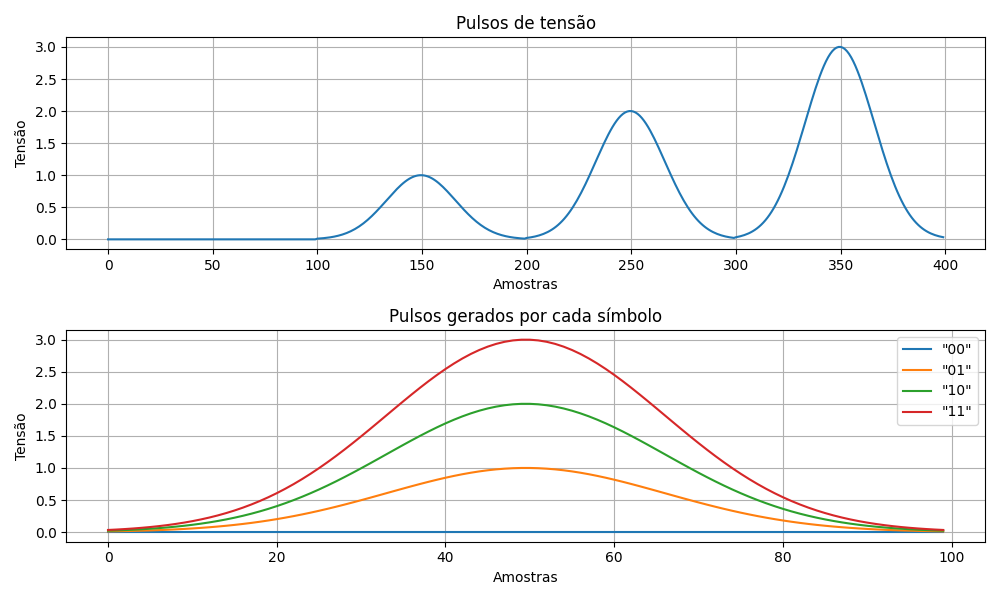
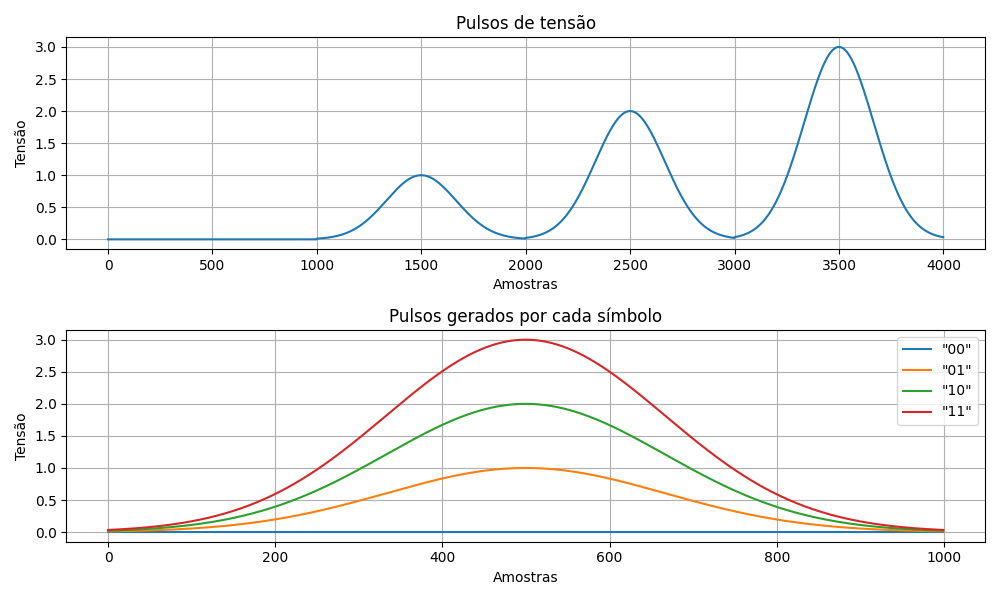
(camada física): testa qam16, fsk, psk e qpsk

diff --git a/camadas/tests/transmissor_test.py b/camadas/tests/transmissor_test.py
@@ -3,9 +3,12 @@ import unittest
 import numpy as np
 import numpy.testing as npt
 from matplotlib import pyplot as plt
+from scipy.signal import find_peaks
 
 from camadas.fisica.transmissor.banda_base import TransmissorBandaBase
+from camadas.fisica.transmissor.modulacoes.qam16 import QAM16
 from camadas.fisica.transmissor.modulador import Modulador
+from util.gray import Gray
 
 
 class TestTransmissorBandaBase(unittest.TestCase):
@@ -234,22 +237,206 @@ class TestTransmissorBandaBase(unittest.TestCase):
     def test_modulador_ask(self):
         modulador = Modulador(
             tensao_pico=3.3,
-            largura_de_banda=4.0,
+            frequencia_portadora=1.0,
             bits_por_simbolo=1,
             modulacao="ask",
             debug=True,
         )
 
         sinal_modulado = modulador.processar_sinal(mensagem="The")
-        print(sinal_modulado)
 
-        plt.figure(figsize=(10, 4))
+        picos, _ = find_peaks(sinal_modulado)
+
+        self.assertEqual(
+            len(picos), 10
+        )  # [0,1,0,1,0,1,0,0, 0,1,1,0,1,0,0,0, 0,1,1,0,0,1,0,1] = 10 1's
+
+        plt.figure(figsize=(15, 4))
         plt.title("Modulação ASK")
         plt.plot(sinal_modulado, label="Mensagem: 'The'")
+        for i in range(
+            0, len(sinal_modulado), int(modulador.portadora.taxa_amostragem)
+        ):  # Linhas verticais separando cada símbolo
+            plt.axvline(x=i, color="red", linestyle="--", alpha=0.5)
         plt.legend()
         plt.tight_layout()
         plt.grid()
         plt.savefig("images/transmissor_modulacao_ask.png")
+
+    def test_modulador_fsk(self):
+        modulador = Modulador(
+            tensao_pico=3.3,
+            frequencia_portadora=1.0,
+            bits_por_simbolo=1,
+            modulacao="fsk",
+            debug=True,
+        )
+
+        sinal_modulado = modulador.processar_sinal(mensagem="The")
+
+        picos, _ = find_peaks(sinal_modulado)
+
+        self.assertEqual(
+            len(picos), 34
+        )  # [0,1,0,1,0,1,0,0, 0,1,1,0,1,0,0,0, 0,1,1,0,0,1,0,1] = dois picos quando 1 e um pico quando 0 = 10*2 + 14*1 = 34
+
+        plt.figure(figsize=(15, 4))
+        plt.title("Modulação FSK")
+        plt.plot(sinal_modulado, label="Mensagem: 'The'")
+        for i in range(
+            0, len(sinal_modulado), int(modulador.portadora.taxa_amostragem)
+        ):  # Linhas verticais separando cada símbolo
+            plt.axvline(x=i, color="red", linestyle="--", alpha=0.5)
+        plt.legend()
+        plt.tight_layout()
+        plt.grid()
+        plt.savefig("images/transmissor_modulacao_fsk.png")
+
+    def test_modulador_psk(self):
+        modulador = Modulador(
+            tensao_pico=3.3,
+            frequencia_portadora=1.0,
+            bits_por_simbolo=1,
+            modulacao="psk",
+            debug=True,
+        )
+
+        sinal_modulado = modulador.processar_sinal(mensagem="The")
+
+        # Essa parte remove máximos locais
+        picos, _ = find_peaks(sinal_modulado)
+        pico_maximo = picos[np.argmax(sinal_modulado[picos])]
+        picos_maximos = picos[
+            np.where(sinal_modulado[picos] == sinal_modulado[pico_maximo])
+        ]
+
+        self.assertEqual(
+            len(picos_maximos), 24
+        )  # [0,1,0,1,0,1,0,0, 0,1,1,0,1,0,0,0, 0,1,1,0,0,1,0,1] = um pico por símbolo = 8*3 = 24
+
+        plt.figure(figsize=(15, 4))
+        plt.title("Modulação PSK")
+        plt.plot(sinal_modulado, label="Mensagem: 'The'")
+        for i in range(
+            0, len(sinal_modulado), int(modulador.portadora.taxa_amostragem)
+        ):  # Linhas verticais separando cada símbolo
+            plt.axvline(x=i, color="red", linestyle="--", alpha=0.5)
+        plt.legend()
+        plt.tight_layout()
+        plt.grid()
+        plt.savefig("images/transmissor_modulacao_psk.png")
+
+    def test_modulador_qpsk(self):
+        modulador = Modulador(
+            tensao_pico=3.3,
+            frequencia_portadora=1.0,
+            bits_por_simbolo=2,
+            modulacao="qpsk",
+            debug=True,
+        )
+
+        sinal_modulado = modulador.processar_sinal(mensagem="The")
+
+        simbolos = [
+            [0, 1],  # T
+            [0, 1],  # T
+            [0, 1],  # T
+            [0, 0],  # T
+            [0, 1],  # h
+            [1, 0],  # h
+            [1, 0],  # h
+            [0, 0],  # h
+            [0, 1],  # e
+            [1, 0],  # e
+            [0, 1],  # e
+            [0, 1],  # e
+        ]
+        gray = Gray(bits_por_simbolo=2, flag_binario=True).tabela_gray
+        simbolos_gray = [gray.tolist().index(s) for s in simbolos]
+
+        plt.figure(figsize=(15, 4))
+        plt.title("Modulação QPSK")
+        plt.plot(sinal_modulado, label="Mensagem: 'The'")
+        for i in range(
+            0, len(sinal_modulado), int(modulador.portadora.taxa_amostragem)
+        ):  # Linhas verticais separando cada símbolo
+            plt.axvline(x=i, color="red", linestyle="--", alpha=0.5)
+            # Fase
+            simbolo_index = i // int(modulador.portadora.taxa_amostragem)
+            if simbolo_index < len(simbolos_gray):
+                plt.text(
+                    i + int(0.4 * modulador.portadora.taxa_amostragem),
+                    3.5,
+                    f"{simbolos_gray[simbolo_index] * 90}°",
+                    color="blue",
+                    fontsize=12,
+                )
+        plt.legend()
+        plt.ylim(-4, 4)
+        plt.tight_layout()
+        plt.grid()
+        plt.savefig("images/transmissor_modulacao_qpsk.png")
+
+    def test_modulador_16qam(self):
+        modulador = Modulador(
+            tensao_pico=3.3,
+            frequencia_portadora=1.0,
+            bits_por_simbolo=4,
+            modulacao="16-qam",
+            debug=True,
+        )
+
+        sinal_modulado = modulador.processar_sinal(mensagem="The")
+
+        simbolos = [
+            5,  # [0, 1, 0, 1]  T
+            4,  # [0, 1, 0, 0]  T
+            6,  # [0, 1, 1, 0]  h
+            8,  # [1, 0, 0, 0]  h
+            6,  # [0, 1, 1, 0]  e
+            5,  # [0, 1, 0, 1]  e
+        ]
+
+        picos = []
+
+        for i in range(len(simbolos)):
+            inicio = i * int(modulador.portadora.taxa_amostragem)
+            fim = (i + 1) * int(modulador.portadora.taxa_amostragem)
+            pico = np.max(sinal_modulado[inicio:fim])
+            picos.append(pico)
+
+        amplitudes, fases = QAM16().gerar_parametros(np.array(simbolos) / (2**4 - 1))
+
+        npt.assert_array_almost_equal(
+            picos,
+            amplitudes * 3.3,
+            decimal=3,
+        )
+
+        plt.figure(figsize=(15, 4))
+        plt.title("Modulação 16-QAM")
+        plt.plot(sinal_modulado, label="Mensagem: 'The'")
+        for i in range(
+            0, len(sinal_modulado), int(modulador.portadora.taxa_amostragem)
+        ):  # Linhas verticais separando cada símbolo
+            plt.axvline(x=i, color="red", linestyle="--", alpha=0.5)
+            # Fase e amplitude
+            simbolo_index = i // int(modulador.portadora.taxa_amostragem)
+            if simbolo_index < len(amplitudes):
+                amplitude = round(amplitudes[simbolo_index], 2)
+                fase = round(fases[simbolo_index], 1)
+            plt.text(
+                i + int(0.25 * modulador.portadora.taxa_amostragem),
+                3.1,
+                f"$A$ = {amplitude}\n$\\Theta$ = {fase}°",
+                color="blue",
+                fontsize=12,
+            )
+        plt.legend()
+        plt.ylim(-4, 4)
+        plt.tight_layout()
+        plt.grid()
+        plt.savefig("images/transmissor_modulacao_16qam.png")
 
 
 if __name__ == "__main__":

diff --git a/camadas/fisica/transmissor/modulador.py b/camadas/fisica/transmissor/modulador.py
@@ -1,6 +1,6 @@
 import numpy as np
 
-from camadas.fisica.transmissor.codificacoes import ASK, FSK, PSK, QAM16, QPSK
+from camadas.fisica.transmissor.modulacoes import ASK, FSK, PSK, QAM16, QPSK
 from util.portadora import Portadora
 from util.ruido import Ruido
 from util.sinal import Sinal
@@ -22,9 +22,10 @@ class Modulador(TransmissorBase):
     def __init__(
         self,
         modulacao: str,
-        largura_de_banda: float,
+        frequencia_portadora: float,
         bits_por_simbolo: int = 1,
         tensao_pico: float = 3.3,
+        taxa_amostragem: int = 1000,
         debug=False,
     ):
         super().__init__()
@@ -35,16 +36,21 @@ class Modulador(TransmissorBase):
         self.modulacao = modulacao
         self.portadora = Portadora(
             amplitude=tensao_pico,
-            frequencia=largura_de_banda,
+            frequencia=frequencia_portadora,
             fase=0,
-            tempo_de_simbolo=1 / (largura_de_banda / bits_por_simbolo),
+            tempo_de_simbolo=1 / frequencia_portadora,
+            taxa_amostragem=taxa_amostragem,
         )
         self.debug = (
             debug  # Flag para printar sinal intermediário e pular adição de ruído
         )
 
+    @property
+    def taxa_amostragem(self) -> int:
+        return self.portadora.taxa_amostragem
+
     def processar_sinal(self, mensagem: str) -> np.ndarray:
-        sinal = Sinal(self.bits_por_simbolo)
+        sinal = Sinal(self.bits_por_simbolo, self.taxa_amostragem)
         ruido = Ruido()
         bits = sinal.gerar_sinal_binario(mensagem)
 

diff --git a/util/portadora.py b/util/portadora.py
@@ -8,11 +8,13 @@ class Portadora:
         frequencia: float,
         fase: float,
         tempo_de_simbolo: float = 1.0,
+        taxa_amostragem: int = 1000,
     ):
         self.amplitude = amplitude
         self.frequencia = frequencia
         self.fase = fase
         self.tempo_de_simbolo = tempo_de_simbolo
+        self.taxa_amostragem = taxa_amostragem
 
     def modular(
         self, amplitudes: np.ndarray, frequencias: np.ndarray, fases: np.ndarray
@@ -25,7 +27,10 @@ class Portadora:
         """
         numero_de_simbolos = len(amplitudes)
         tempo = np.linspace(
-            0, self.tempo_de_simbolo, int(self.tempo_de_simbolo * 1000), endpoint=False
+            0,
+            self.tempo_de_simbolo,
+            int(self.tempo_de_simbolo * self.taxa_amostragem),
+            endpoint=False,
         )
 
         sinal_modulado = np.array([])
@@ -63,7 +68,7 @@ class Portadora:
             numero_de_simbolos = len(mensagem)
 
         tempo_total = duracao_simbolo * numero_de_simbolos
-        tempo = np.linspace(0, tempo_total, int(tempo_total * 1000))
+        tempo = np.linspace(0, tempo_total, int(tempo_total * self.taxa_amostragem))
 
         sinal_portadora = self.gerar_portadora(tempo)
 

diff --git a/util/sinal.py b/util/sinal.py
@@ -5,13 +5,18 @@ from scipy.stats import norm
 class Sinal:
     """Classe que converte uma mensagem de texto em um sinal digital."""
 
-    def __init__(self, bits_por_simbolo: int = 1):
+    def __init__(self, bits_por_simbolo: int = 1, taxa_amostragem: int = 1000):
         self._bits_por_simbolo = bits_por_simbolo
+        self._taxa_amostragem = taxa_amostragem
 
     @property
     def bits_por_simbolo(self) -> int:
         return self._bits_por_simbolo
-    
+
+    @property
+    def taxa_amostragem(self) -> int:
+        return self._taxa_amostragem
+
     @bits_por_simbolo.setter
     def bits_por_simbolo(self, valor: int):
         self._bits_por_simbolo = valor
@@ -34,7 +39,7 @@ class Sinal:
 
         for i, valor in enumerate(simbolos_decimais):
             duracao_pulso = 1.0
-            num_amostras = 100
+            num_amostras = int(self.taxa_amostragem * duracao_pulso)
             tempo = np.linspace(0, duracao_pulso, num_amostras)
 
             curva_sigma = norm.pdf(

diff --git a/camadas/fisica/transmissor/banda_base.py b/camadas/fisica/transmissor/banda_base.py
@@ -21,6 +21,7 @@ class TransmissorBandaBase(TransmissorBase):
         codificacao: str,
         bits_por_simbolo: int = 1,
         tensao_pico: float = 3.3,
+        taxa_amostragem: int = 1000,
         debug=False,
     ):
         super().__init__()
@@ -29,13 +30,14 @@ class TransmissorBandaBase(TransmissorBase):
         self.codificador = CODIFICACOES[codificacao]()
         self.bits_por_simbolo = bits_por_simbolo
         self.tensao_pico = tensao_pico
+        self.taxa_amostragem = taxa_amostragem
         self.debug = (
             debug  # Flag para printar sinal intermediário e pular adição de ruído
         )
 
     def processar_sinal(self, mensagem: str) -> np.ndarray:
         # Converte a mensagem em uma sequência de bits
-        sinal = Sinal(self.bits_por_simbolo)
+        sinal = Sinal(self.bits_por_simbolo, taxa_amostragem=self.taxa_amostragem)
         ruido = Ruido()
         bits = sinal.gerar_sinal_binario(mensagem)
 

diff --git a/camadas/fisica/transmissor/modulacoes/qam16.py b/camadas/fisica/transmissor/modulacoes/qam16.py
@@ -16,6 +16,11 @@ class QAM16(ModulacaoBase):
             ]
         ) / (2**4 - 1)  # Normalizado entre 0 e 1
 
+    @property
+    def tabela_gray(self) -> np.ndarray:
+        """Retorna a tabela Gray utilizada na modulação 16QAM."""
+        return self._gray_16qam_decimal
+
     def gerar_parametros(self, simbolos_decimais: np.ndarray) -> np.ndarray:
         """Modulação 16QAM (Quadrature Amplitude Modulation).
         A fase da portadora pode ser defasada de 0 a 360 graus
